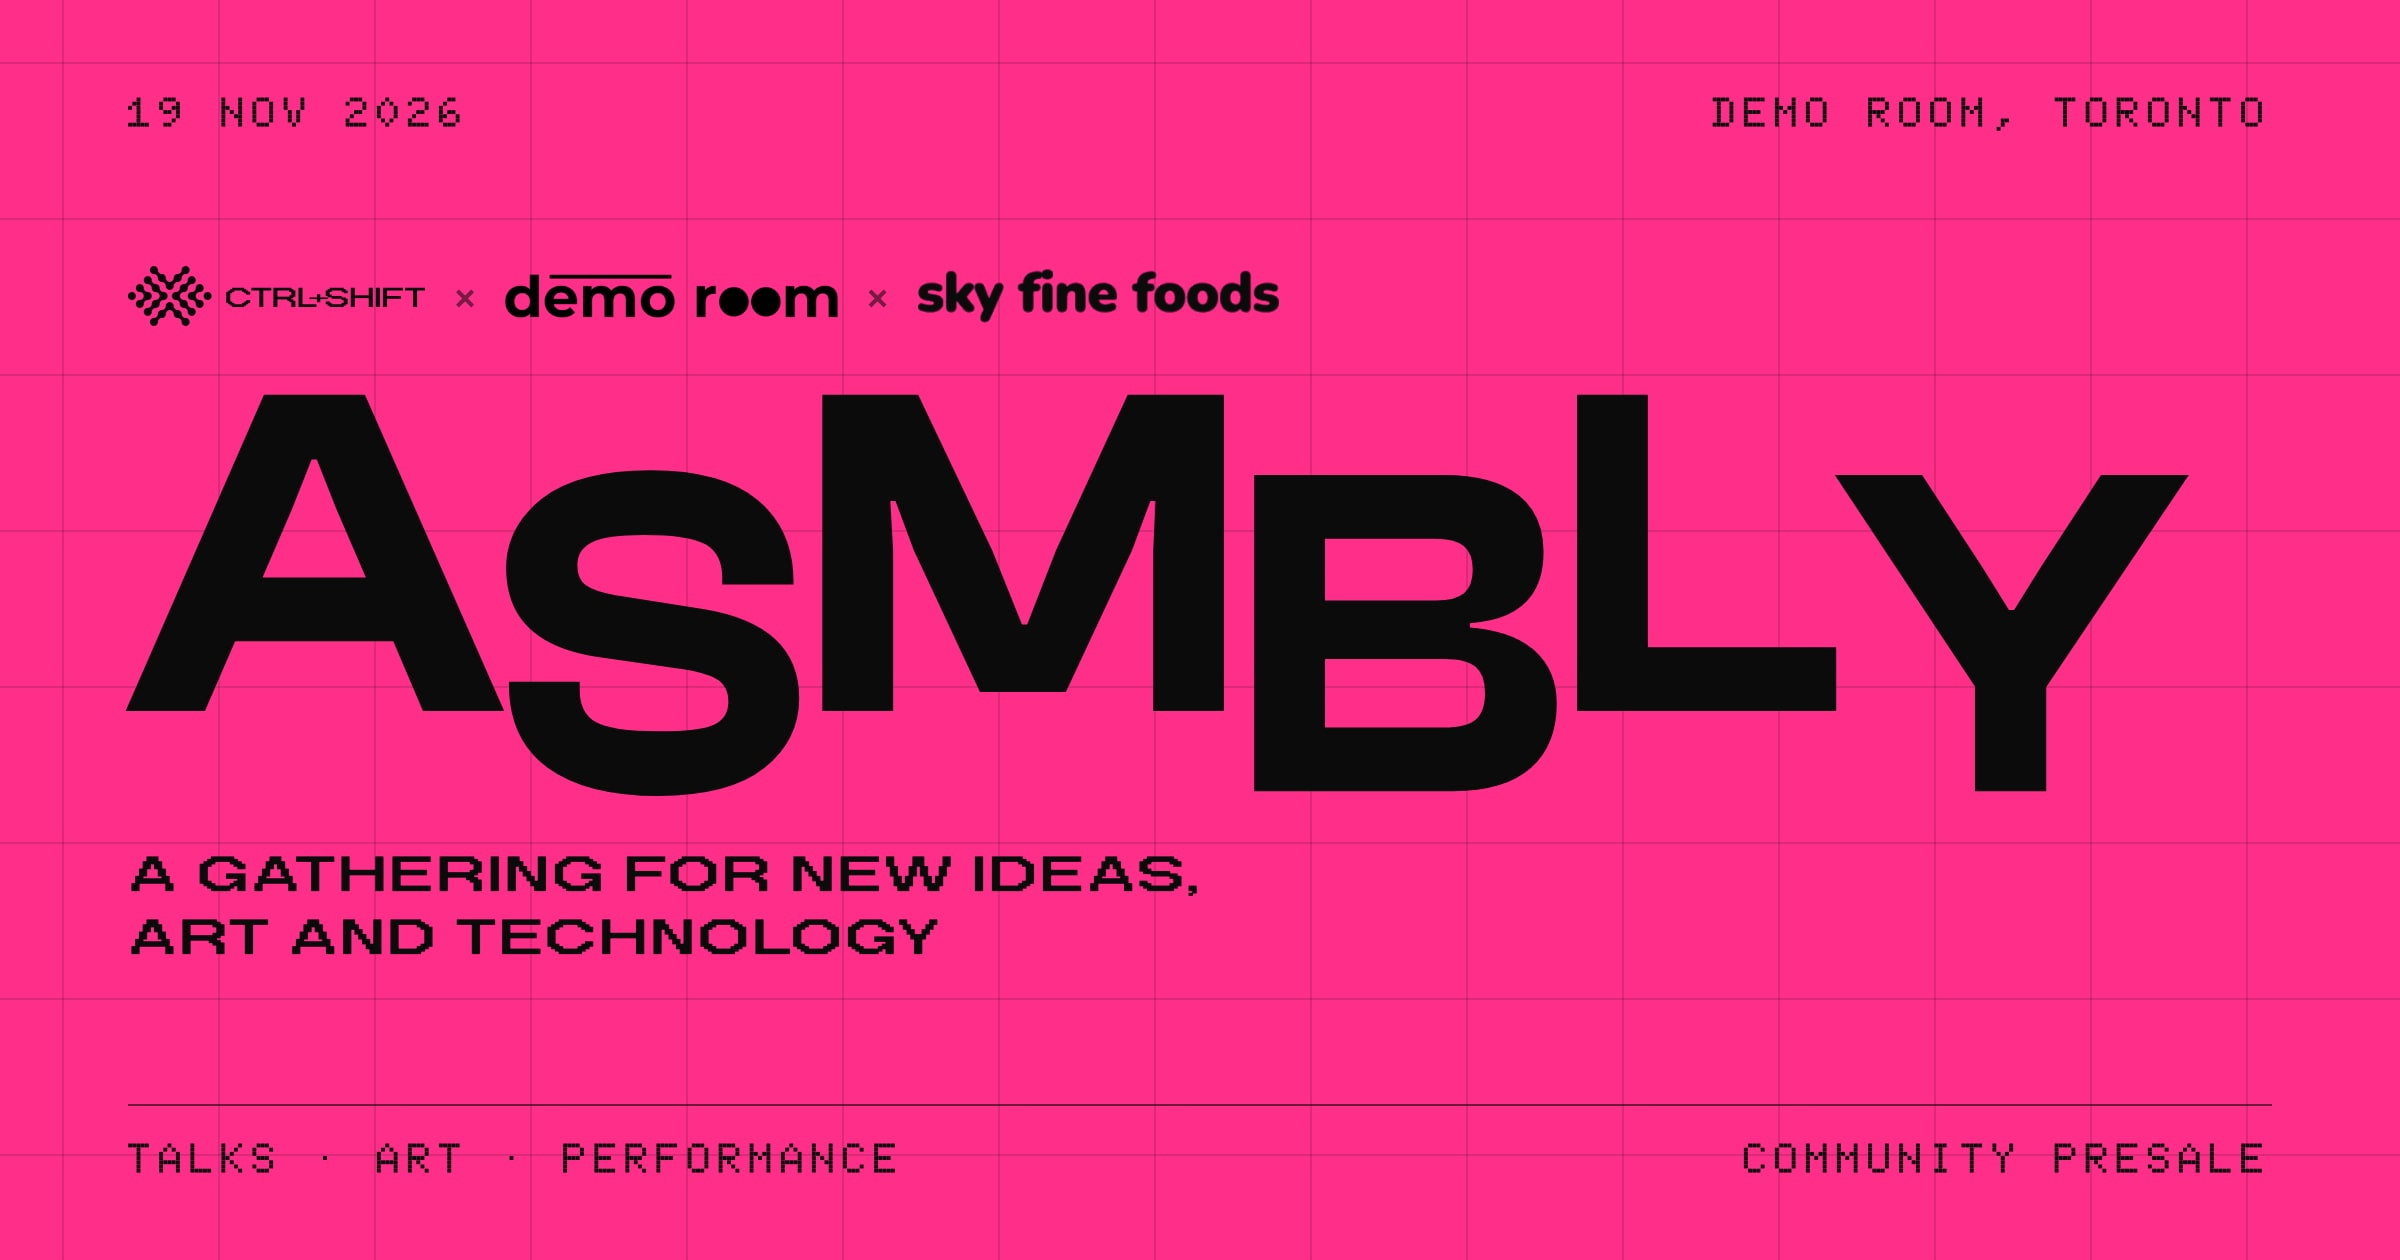
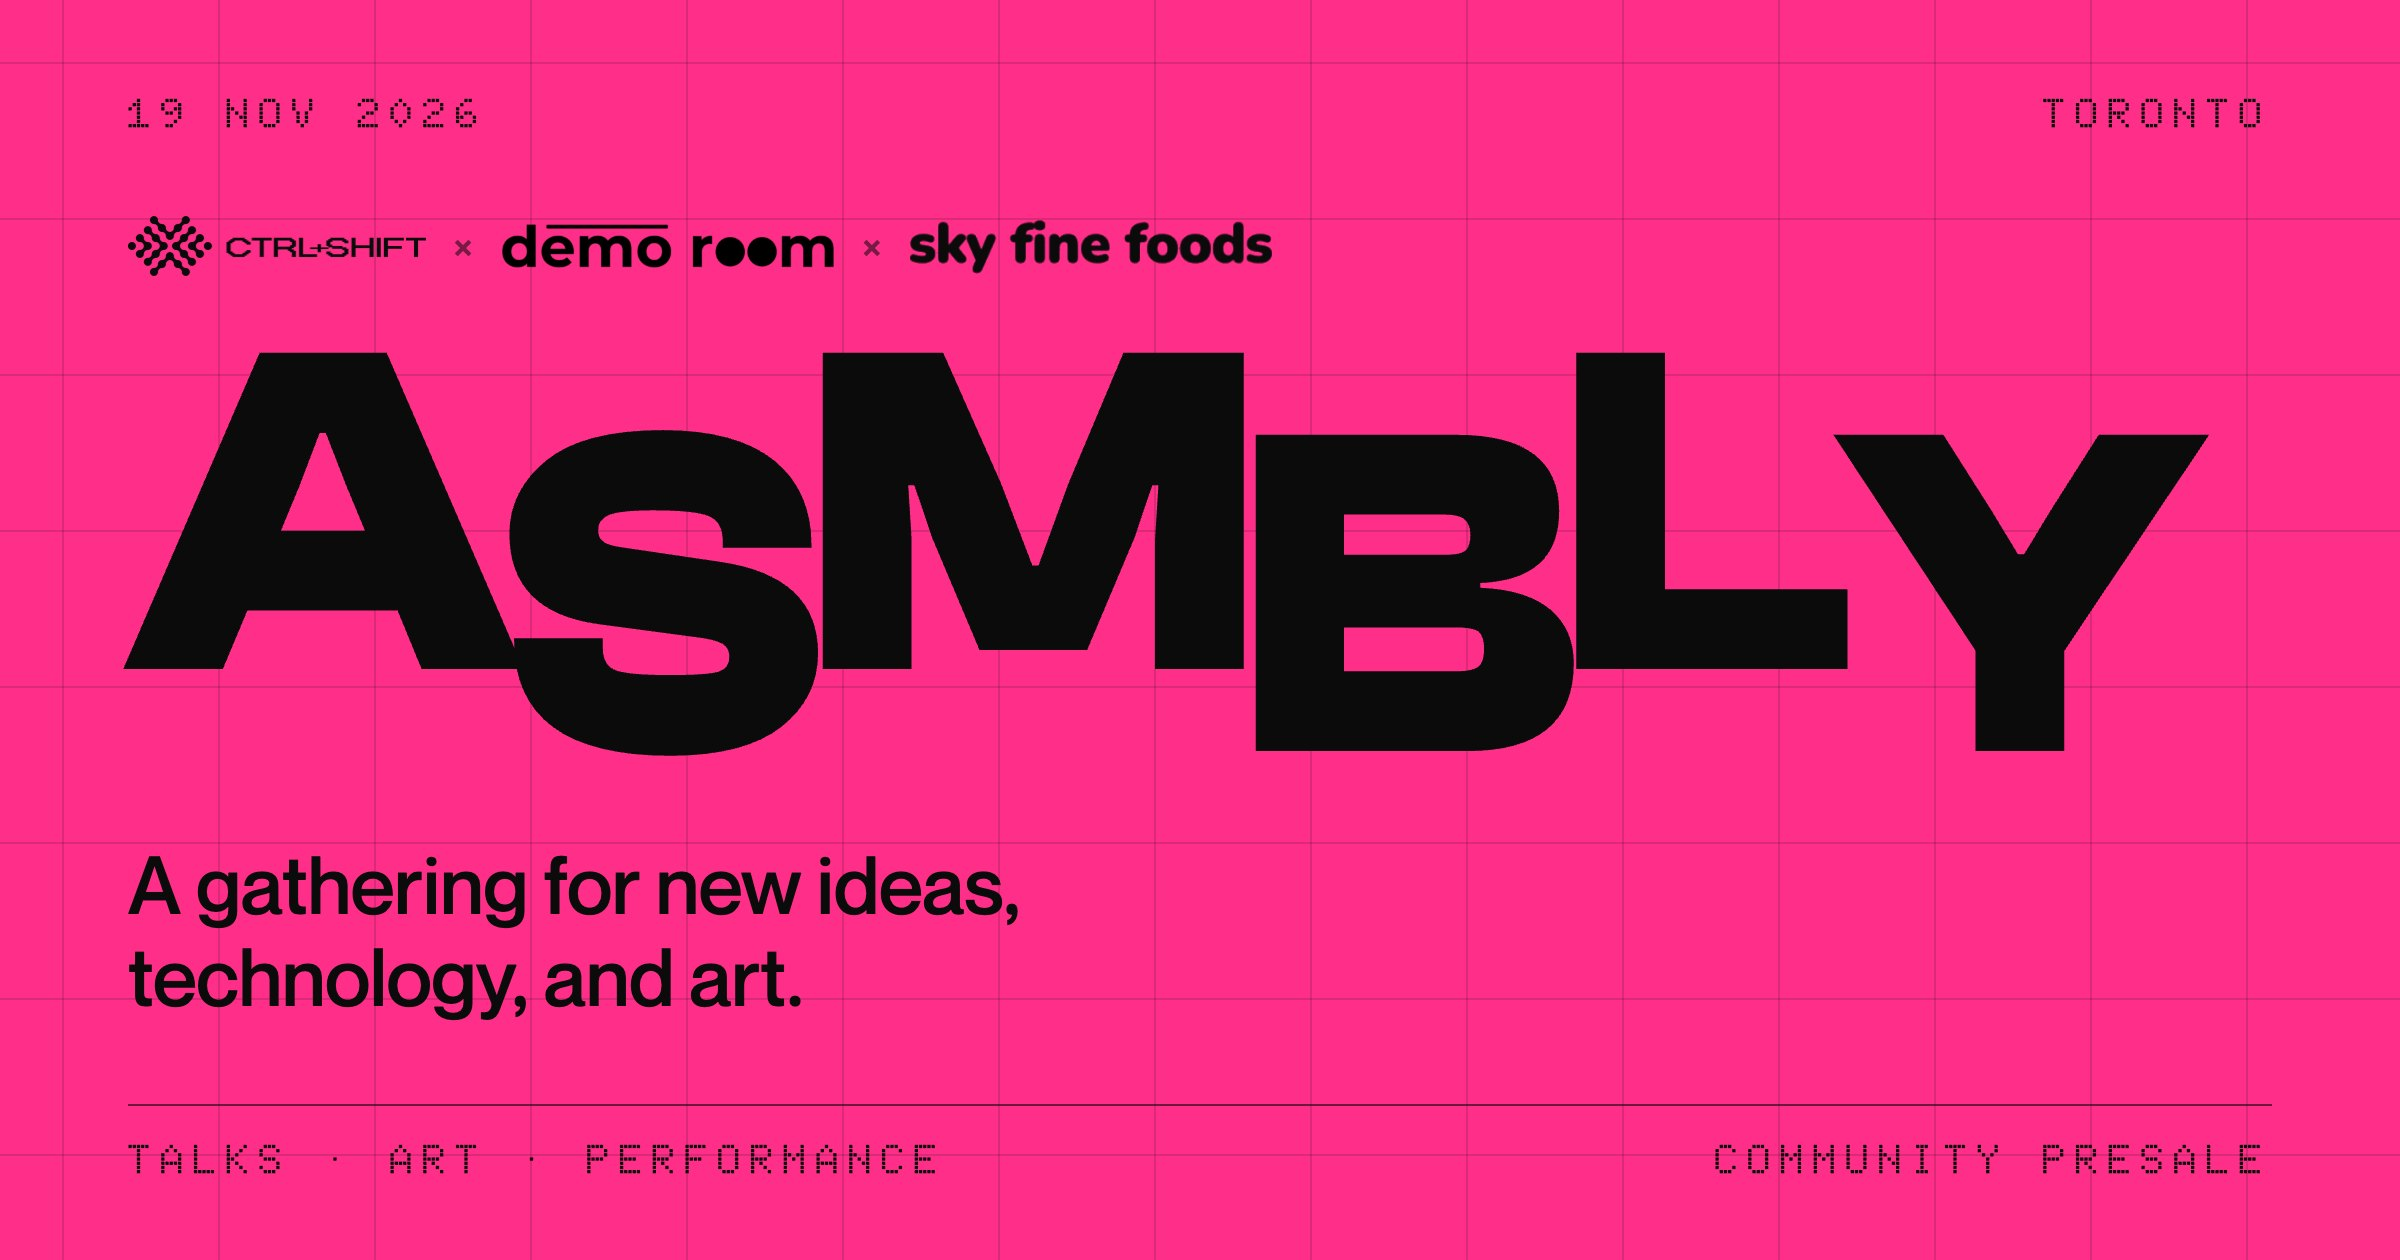
asmbly: share card in brand fonts with new subtitle; meta copy says 'new ideas, technology, and art'

diff --git a/public/asmbly/index.html b/public/asmbly/index.html
@@ -3,24 +3,24 @@
 <head>
 <meta charset="UTF-8" />
 <meta name="viewport" content="width=device-width, initial-scale=1.0" />
-<title>ASMBLY | A gathering for new ideas, art and technology · 19 Nov 2026, Toronto</title>
+<title>ASMBLY | A gathering for new ideas, technology, and art · 19 Nov 2026, Toronto</title>
 <meta name="description" content="ASMBLY by CTRL+SHIFT, Demo Room and Sky Fine Foods. Talks, art and performance: a night of conversation, interactive installations, a live AV set and a dance floor. 19 November 2026 at Demo Room, Toronto." />
 <link rel="canonical" href="https://www.ctrlshift.community/asmbly" />
-<meta property="og:title" content="ASMBLY · A gathering for new ideas, art and technology · 19.11.2026 · Toronto" />
-<meta property="og:description" content="A gathering for new ideas, art and technology by CTRL+SHIFT and Demo Room. Talks, art and performance, with art curated by Sky Fine Foods. Demo Room, 307 Lake Shore Blvd E, Toronto." />
+<meta property="og:title" content="ASMBLY · A gathering for new ideas, technology, and art · 19.11.2026 · Toronto" />
+<meta property="og:description" content="A gathering for new ideas, technology, and art by CTRL+SHIFT and Demo Room. Talks, art and performance, with art curated by Sky Fine Foods. Demo Room, 307 Lake Shore Blvd E, Toronto." />
 <meta property="og:type" content="website" />
 <meta property="og:site_name" content="CTRL+SHIFT" />
 <meta property="og:url" content="https://www.ctrlshift.community/asmbly" />
 <!-- Link-preview card, 2400x1260 (og.jpg). Regenerate if the date, venue or branding changes. -->
-<meta property="og:image" content="https://www.ctrlshift.community/asmbly/og.jpg?v=6" />
+<meta property="og:image" content="https://www.ctrlshift.community/asmbly/og.jpg?v=7" />
 <meta property="og:image:type" content="image/jpeg" />
 <meta property="og:image:width" content="2400" />
 <meta property="og:image:height" content="1260" />
-<meta property="og:image:alt" content="ASMBLY: a gathering for new ideas, art and technology. 19 Nov 2026, Demo Room, Toronto. CTRL+SHIFT × Demo Room." />
+<meta property="og:image:alt" content="ASMBLY: a gathering for new ideas, technology, and art. 19 Nov 2026, Toronto. CTRL+SHIFT × Demo Room × Sky Fine Foods." />
 <meta name="twitter:card" content="summary_large_image" />
-<meta name="twitter:title" content="ASMBLY · A gathering for new ideas, art and technology · 19.11.2026 · Toronto" />
-<meta name="twitter:description" content="A gathering for new ideas, art and technology. CTRL+SHIFT × Demo Room × Sky Fine Foods, Toronto." />
-<meta name="twitter:image" content="https://www.ctrlshift.community/asmbly/og.jpg?v=6" />
+<meta name="twitter:title" content="ASMBLY · A gathering for new ideas, technology, and art · 19.11.2026 · Toronto" />
+<meta name="twitter:description" content="A gathering for new ideas, technology, and art. CTRL+SHIFT × Demo Room × Sky Fine Foods, Toronto." />
+<meta name="twitter:image" content="https://www.ctrlshift.community/asmbly/og.jpg?v=7" />
 <meta name="theme-color" content="#fe2e89" />
 <link rel="icon" href="/favicon.png" />
 <link rel="preload" href="/asmbly/fonts/ClashDisplay-700.woff2" as="font" type="font/woff2" crossorigin />
